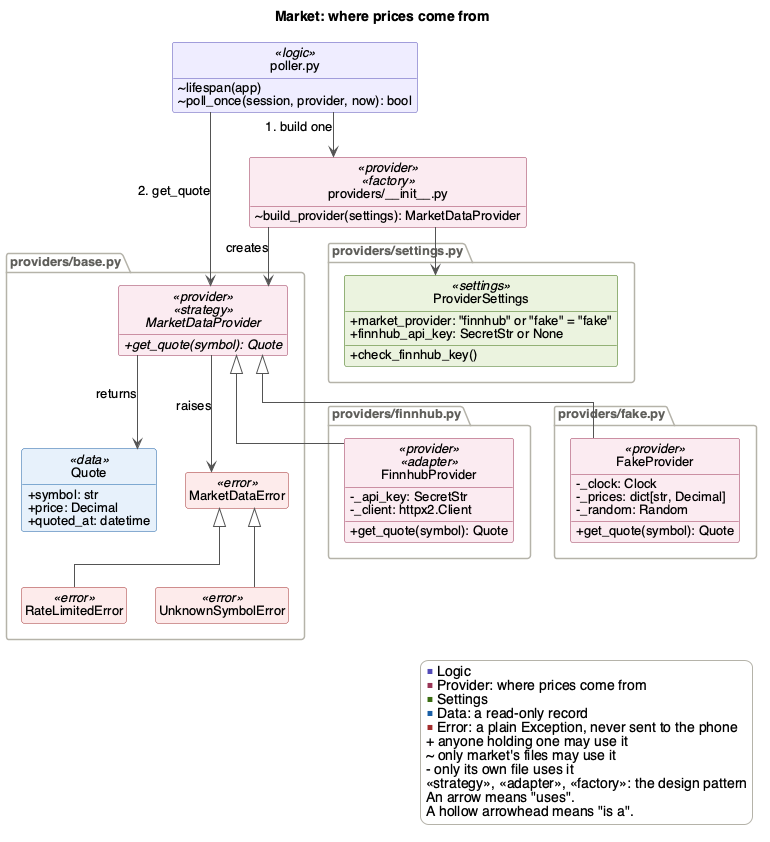
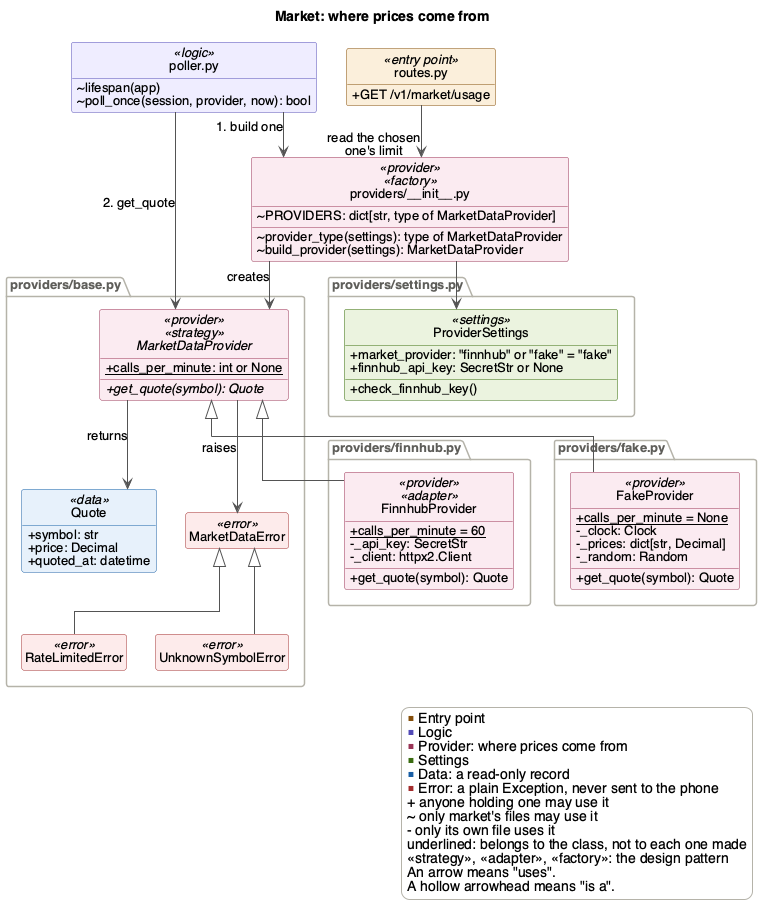
Docs: each provider's request limit, provider_type, and obtained_at in each holding

diff --git a/docs/Design/SoftDetailedDes/MIS.tex b/docs/Design/SoftDetailedDes/MIS.tex
@@ -61,6 +61,9 @@ Module Decomposition.\\
 Nov 10, 2026 & 1.2 & Davis Lenover: the reason for each decision in every other
 server module, Market Providers as a template module, error handlers in JSON
 Format, and the 401 on both Trading routes.\\
+Nov 10, 2026 & 1.3 & Davis Lenover: each provider's request limit in Market
+Providers, with provider\_type, the chosen provider's limit in Market's usage
+route, and obtained\_at in each holding of Trading.\\
 \bottomrule
 \end{tabularx}
 
@@ -536,9 +539,19 @@ lags the real market (SEC-2).
 \medskip
 {\raggedright
 \noindent MarketDataProvider: the abstract type of every provider, with one
-access program, get\_quote. FinnhubProvider turns Finnhub's replies and errors
+access program, get\_quote, and calls\_per\_minute: $\mathbb{N}$ or None, the
+most calls a minute it allows, or None if it has no limit. Each provider type,
+such as FinnhubProvider, gives its own: 60 for FinnhubProvider, Finnhub's free plan, and None for
+FakeProvider, which calls no one. So GET /v1/market/usage of Market (M10)
+reports the chosen provider's limit, and the team can check the server stays
+within it (SC4). FinnhubProvider turns Finnhub's replies and errors
 into Quotes and MarketDataErrors (the adapter pattern). FakeProvider makes up
 prices, so the team can develop and test without a key or an open market.\par}
+
+\medskip
+{\raggedright
+\noindent ProviderType $=$ \{FinnhubProvider, FakeProvider\}, the type of a
+provider, whose calls\_per\_minute can be read without making one.\par}
 
 \medskip
 \noindent ProviderSettings = tuple of (market\_provider: String,
@@ -555,10 +568,9 @@ apart from a provider that fails.
 
 \subsubsection{Exported Constants}
 
-{\raggedright
-FINNHUB\_CALLS\_PER\_MINUTE: $\mathbb{N}$ = 60, Finnhub's free plan limit.
-GET /v1/market/usage of Market (M10) reports it, so the team can check the
-server's calls stay within it (SC4).\par}
+\noindent PROVIDERS: String $\rightarrow$ ProviderType $=$ \{``finnhub''
+$\mapsto$ FinnhubProvider, ``fake'' $\mapsto$ FakeProvider\}, each provider type
+by its MARKET\_PROVIDER name. A new provider is added here.
 
 \subsubsection{Exported Access Programs}
 
@@ -571,6 +583,7 @@ new FinnhubProvider & String & FinnhubProvider & - \\
 new FakeProvider & Clock & FakeProvider & - \\
 get\_quote & String & Quote & MarketDataError,\newline RateLimitedError,\newline
 UnknownSymbolError \\
+provider\_type & ProviderSettings & ProviderType & ValueError \\
 build\_provider & ProviderSettings & MarketDataProvider & ValueError \\
 get\_provider\_settings & - & ProviderSettings & ValidationError \\
 \bottomrule
@@ -581,7 +594,8 @@ get\_provider\_settings & - & ProviderSettings & ValidationError \\
 
 \subsubsection{State Variables}
 
-\noindent Each provider has its own state, which new sets up.
+\noindent Each provider has its own state, which new sets up. Its
+calls\_per\_minute belongs to its type, not to each one made.
 
 \medskip
 \noindent key: String, a FinnhubProvider's API key. It prints as stars, and it
@@ -645,16 +659,26 @@ ProviderSettings, read from the environment or the .env file. Git ignores
 \item exception: None, even for a symbol no real stock has
 \end{itemize}
 
+\noindent provider\_type($v$):
+\begin{itemize}
+\item output: $out :=$ PROVIDERS($v$.market\_provider), the type of the
+  provider $v$ names, without making one. Market (M10) reads its
+  calls\_per\_minute this way for its usage route, so no provider, with its
+  HTTP client, is made on each request.
+\item exception: $exc :=$ ($v$.market\_provider names no provider
+  $\Rightarrow$ ValueError)
+\end{itemize}
+
 \noindent build\_provider($v$):
 \begin{itemize}
-\item output: $out :=$ the provider that $v$ names. That is currently new
-  FinnhubProvider with $v$'s key for ``finnhub'', or new
-  FakeProvider(system\_clock) for ``fake''. Market (M10) gets its provider
-  only from here (the factory pattern), so a new provider changes only this
-  module and the limit that GET /v1/market/usage reports.
-\item exception: $exc :=$ ($v$.market\_provider names no provider
-  $\Rightarrow$ ValueError). It never falls back to FakeProvider, whose
-  made-up prices would be shown as real.
+\item output: $out :=$ the provider that $v$ names, of type
+  provider\_type($v$). That is currently new FinnhubProvider with $v$'s key
+  for ``finnhub'', or new FakeProvider(system\_clock) for ``fake''. Market
+  (M10) gets its provider only from here (the factory pattern), so a new
+  provider changes only this module.
+\item exception: $exc :=$ ($v$.market\_provider names no provider, or one
+  that build\_provider can't make yet $\Rightarrow$ ValueError). It never falls
+  back to FakeProvider, whose made-up prices would be shown as real.
 \end{itemize}
 
 \noindent get\_provider\_settings():
@@ -1280,7 +1304,9 @@ PLUGIN: Plugin $=$ (name: ``market'', router: the two routes below, lifespan:
 lifespan, health: health). Both of Market's routes need no signed-in user.
 What they send is the same for everyone and is no user's data, so SEC-15
 doesn't ask for one. They take now from get\_clock of Clock (M2) and session
-from get\_db of Database (M1).
+from get\_db of Database (M1). GET /v1/market/usage also takes settings from
+get\_provider\_settings of Market Providers (M3), so a test can choose the
+provider.
 
 \subsubsection{Exported Access Programs}
 
@@ -1302,7 +1328,7 @@ String, quoted\_at: DateTime or None, obtained\_at: DateTime or None, delayed:
 $\mathbb{B}$)) & - \\
 GET /v1/market/usage & - & tuple of (calls\_last\_minute: $\mathbb{Z}$,
 busiest\_minute\_today: $\mathbb{Z}$, calls\_today: $\mathbb{Z}$,
-limit\_per\_minute: $\mathbb{N}$) & - \\
+limit\_per\_minute: $\mathbb{N}$ or None) & - \\
 \bottomrule
 \end{tabular}
 \end{center}
@@ -1421,8 +1447,9 @@ poll, from calling the provider.
 \item output: $out := $ (calls\_last\_minute: $|R(\text{now} - 1 \text{
   minute})|$, busiest\_minute\_today: the most entries of $R(\text{start})$ in
   one clock minute, or 0 if there are none, calls\_today:
-  $|R(\text{start})|$, limit\_per\_minute: FINNHUB\_CALLS\_PER\_MINUTE of
-  Market Providers (M3)), where $R(t)$ is the entries of requests from $t$ to
+  $|R(\text{start})|$, limit\_per\_minute: the
+  calls\_per\_minute of provider\_type(settings) in Market Providers (M3), None
+  for the fake provider), where $R(t)$ is the entries of requests from $t$ to
   now, and start is the midnight that begins now's New York day, the
   market's day
 \item exception: None
@@ -1552,8 +1579,8 @@ earlier trade, unlike Market's 404 for a stock that doesn't exist.\par}
 
 \medskip
 \noindent HoldingValue = tuple of (symbol: String, quantity: $\mathbb{Z}$,
-price: Money, quoted\_at: DateTime, delayed: $\mathbb{B}$, value: Money), one
-holding in the reply to GET /v1/me/portfolio.
+price: Money, quoted\_at: DateTime, obtained\_at: DateTime, delayed: $\mathbb{B}$,
+value: Money), one holding in the reply to GET /v1/me/portfolio.
 
 \subsubsection{Exported Constants}
 
@@ -1730,12 +1757,12 @@ holdings\_value: Decimal, total\_value: Decimal) only reads.
   of their values, is the portfolio value of FR42, which leaves the cash out.
   With $c :=$
   get\_current\_price(session, $h$.asset\_id, now), $h$'s entry is (its symbol,
-  $h$.quantity, $c$.price, $c$.quoted\_at, $c$.delayed, $h$.quantity $\times$
+  $h$.quantity, $c$.price, $c$.quoted\_at, $c$.obtained\_at, $c$.delayed,
+  $h$.quantity $\times$
   $c$.price). A delayed price is still used, since FR42 asks for each stock's
-  most recent price, and delayed flags it, so the phone marks it (FR33). A holding gives quoted\_at,
-  the time delayed is judged by, but not yet obtained\_at, the time FR33 asks
-  to show. No
-  amount needs rounding, since none comes from a division.
+  most recent price, and delayed flags it, so the phone marks it (FR33). A holding gives
+  obtained\_at, the time FR33 asks to show with its price, and quoted\_at,
+  the time delayed goes by. No amount needs rounding, since none comes from a division.
 \item exception: None
 \end{itemize}
 

diff --git a/docs/Design/SoftArchitecture/MG.tex b/docs/Design/SoftArchitecture/MG.tex
@@ -54,6 +54,9 @@ Hierarchy. 7 Module Decomposition: Users, Wallet and Email Service, a rationale
 for each module, and module health in Control and Plugins. Review fixes to Database, Market,
 Trading (queued trades and the simulation notice at Revision~0) and JSON
 Format, and to 9 Use Hierarchy Between Modules.\\
+Nov 10, 2026 & 1.2 & Davis Lenover: 2.1 Abbreviations and Acronyms, and review
+fixes to 7 Module Decomposition. Each market data provider gives its own
+request limit, so a new one changes only Market Providers.\\
 \bottomrule
 \end{tabularx}
 
@@ -396,7 +399,7 @@ or SEC-15), and the design pattern it uses. Server paths under \emph{Implemented
 \begin{description}
 \item[Secrets:] The market data provider's API.
 \item[Services:] Gets the latest quote for a stock through one interface that every provider follows, and picks the provider that \texttt{MARKET\_PROVIDER} names. The Finnhub provider turns Finnhub's replies and errors into \progname{}'s own quotes and errors. A fake provider makes up prices for development and tests.
-\item[Rationale:] The prices come from a third party, within its request limits (SC4), and the provider may change if its request limits or cost prevent the planned use (SRS LC3). Every provider follows one interface (strategy), Finnhub's API is wrapped to fit it (adapter), and a setting picks one (factory), so a new provider changes only this module and the request limit that \mref{mMarket}'s usage route reports. Its key stays on the server (SEC-33). The fake provider lets the team develop and test without a key or an open market.
+\item[Rationale:] The prices come from a third party, within its request limits (SC4), and the provider may change if its request limits or cost prevent the planned use (SRS LC3). Every provider follows one interface (strategy), Finnhub's API is wrapped to fit it (adapter), and a setting picks one (factory), so a new provider, with its own request limit, changes only this module. Its key stays on the server (SEC-33). The fake provider lets the team develop and test without a key or an open market.
 \item[Implemented By:] \progname{} server, in \path{market/providers/}, using Finnhub
 \item[Type of Module:] Abstract Data Type, with one interface and a Finnhub and a fake implementation
 \end{description}

diff --git a/src/backend/app/market/providers/__init__.py b/src/backend/app/market/providers/__init__.py
@@ -11,8 +11,7 @@ provider_type says which one without making it. To add a provider:
    with get_quote(symbol) and calls_per_minute.
 2. Add its name to MARKET_PROVIDER in settings.py in this folder, and to
    .env.example.
-3. Add it to PROVIDERS below, and to build_provider if it needs settings to
-   be made.
+3. Add it to PROVIDERS below, and to build_provider.
 """
 
 from app.market.providers.base import MarketDataProvider

diff --git a/docs/Design/SoftArchitecture/modules/market.md b/docs/Design/SoftArchitecture/modules/market.md
@@ -39,6 +39,13 @@ Other modules read market only through `queries.py`, which never writes, and
 - **Factory:** `build_provider(settings)` returns the provider that
   `MARKET_PROVIDER` names, `fake` by default. An unknown name is refused,
   never replaced by made-up prices, which would be shown as real.
+  `provider_type(settings)` gives the chosen provider's class without making
+  one, so its request limit can be read.
+
+Each provider gives its own request limit, `calls_per_minute`:
+`FinnhubProvider` 60, Finnhub's free plan, and `FakeProvider` `None`, since it
+calls no one. So a new provider brings its own limit, and no code outside
+`providers/` changes.
 
 **The Finnhub key stays on the server (SEC-33).** It is `FINNHUB_API_KEY` in
 the server's `.env`, which git ignores. `ProviderSettings` keeps it as a
@@ -49,11 +56,11 @@ symbol (SEC-11).
 
 To add a provider, without changing any code outside `providers/`:
 1. Write a class in `app/market/providers/` that names `MarketDataProvider` as
-   its base and has `get_quote(symbol)`. One without `get_quote` fails as soon
-   as it is created.
+   its base, with `get_quote(symbol)` and `calls_per_minute`. One without
+   `get_quote` fails as soon as it is created.
 2. Add its name to `MARKET_PROVIDER` in `providers/settings.py` and to
    `.env.example`.
-3. Add it to `build_provider`.
+3. Add it to `PROVIDERS` in `providers/__init__.py`, and to `build_provider`.
 
 ## The poller
 
@@ -129,7 +136,9 @@ are null.
 **`GET /v1/market/usage`** counts the server's calls to the provider, to
 check they stay within its request limit (SC_MarketData). It gives the calls
 in the last minute, in the busiest minute today and in all of today, a New
-York calendar day. `limit_per_minute` is 60, Finnhub's free plan. A poll
+York calendar day. `limit_per_minute` is the chosen provider's limit, 60 for
+Finnhub's free plan, or null for the fake provider, which has none. It reads
+the settings through `Depends`, so a test can choose the provider. A poll
 makes one call per tradable stock, so the 15 stocks take 15 a minute.
 
 ## Records, errors, settings and tables
@@ -146,9 +155,9 @@ The database sets `obtained_at` when it saves a price.
 - **Plug-in:** `plugin.py` adds market's routes, the poller's `lifespan` and
   its `health`. The kernel doesn't change.
 - **Strategy, adapter and factory:** `MarketDataProvider`, `FinnhubProvider`
-  and `build_provider`, as above.
+  and `build_provider` with `provider_type`, as above.
 - **Dependency injection:** the routes get the session and the clock through
-  `Depends`. `run_poller` is given its provider, clock and session factory,
+  `Depends`, and the usage route gets the provider settings too. `run_poller` is given its provider, clock and session factory,
   `FakeProvider` its clock and `FinnhubProvider` its HTTP client, so tests
   hand in stand-ins.
 - **Read-only records:** `AssetInfo` and `CurrentPrice` are frozen copies,
@@ -168,11 +177,11 @@ The database sets `obtained_at` when it saves a price.
 | File | What it checks |
 |---|---|
 | `test_market_calendar.py` | The exchange's hours, holidays and early closes, time zones, `MARKET_ALWAYS_OPEN` opening the market for other modules too, and the settings `check_always_open` allows |
-| `test_market_providers.py` | `build_provider`, the Finnhub key setting, a provider without `get_quote`, and the fake provider's prices |
+| `test_market_providers.py` | `build_provider` and `provider_type`, each provider's request limit, the Finnhub key setting, a provider without `get_quote`, and the fake provider's prices |
 | `test_finnhub.py` | The Finnhub adapter against a fake Finnhub: exact prices, the key kept out of the URL, and each error |
 | `test_market_poller.py` | `poll_once`: a price for each tradable stock, failures, the request limit, repeats skipped and corrections saved, the call log |
 | `test_market_poller_thread.py` | When it polls, each poll committing, the app starting and stopping the thread, the settings' defaults, bad settings, and `health` |
 | `test_market_queries.py` | The queries: read-only copies, unknown stocks, stocks that are not tradable, the newest price, and when a price is delayed |
-| `test_market_routes.py` | `GET /v1/assets` and `GET /v1/market/usage` |
+| `test_market_routes.py` | `GET /v1/assets`, and `GET /v1/market/usage` with the chosen provider's limit |
 | `test_assets_table.py` | The 15 starting stocks, and the rows the `assets` table refuses |
 | `test_prices_table.py` | Prices saved exactly with both times, the rows the `prices` table refuses, each quote once |

diff --git a/docs/Design/SoftArchitecture/modules/trading.md b/docs/Design/SoftArchitecture/modules/trading.md
@@ -65,7 +65,9 @@ What the phone must do:
 
 `GET /v1/me/portfolio` sends each holding at its quantity × its stock's
 latest price, sorted by symbol. A delayed price is still used, and its holding
-is marked `delayed`.
+is marked `delayed`. Each holding gives both times of its price: `obtained_at`,
+when the server got it, which the phone shows with it (FR_MktPriceAge), and
+`quoted_at`, when the provider set it, which `delayed` goes by.
 - `holdings_value` is the sum of the holdings, the SRS's portfolio value
   (FR_MktPortfolioValue). It leaves the cash out.
 - `total_value` is `cash_balance` + `holdings_value`.
@@ -111,4 +113,4 @@ pay for one trade.
 | `test_trading_tables.py` | The rules the tables keep by themselves |
 | `test_trading_buy.py` | `buy`: exact costs, every refusal and its order, each `request_id` once |
 | `test_trading_routes.py` | `POST /v1/me/trades`: status codes, bodies, each refusal's code and message, all or nothing |
-| `test_trading_portfolio.py` | `portfolio_value` and `GET /v1/me/portfolio` |
+| `test_trading_portfolio.py` | `portfolio_value` and `GET /v1/me/portfolio`, with each holding's two times |

diff --git a/docs/Design/SoftArchitecture/BackendArchitecture.md b/docs/Design/SoftArchitecture/BackendArchitecture.md
@@ -129,7 +129,8 @@ See [the kernel](modules/core.md).
 **Strategy, adapter and factory.** Market asks for prices through one
 interface, `MarketDataProvider`. `FinnhubProvider` adapts Finnhub's API to
 it, `FakeProvider` makes up prices, and `build_provider` picks one from
-`MARKET_PROVIDER`. See [market](modules/market.md).
+`MARKET_PROVIDER`. Each provider gives its own request limit, so a new one
+changes no code outside `market/providers/`. See [market](modules/market.md).
 
 **Dependency injection.** Code is handed what it needs instead of fetching
 it. Routes get a database session and the clock from the kernel, through
